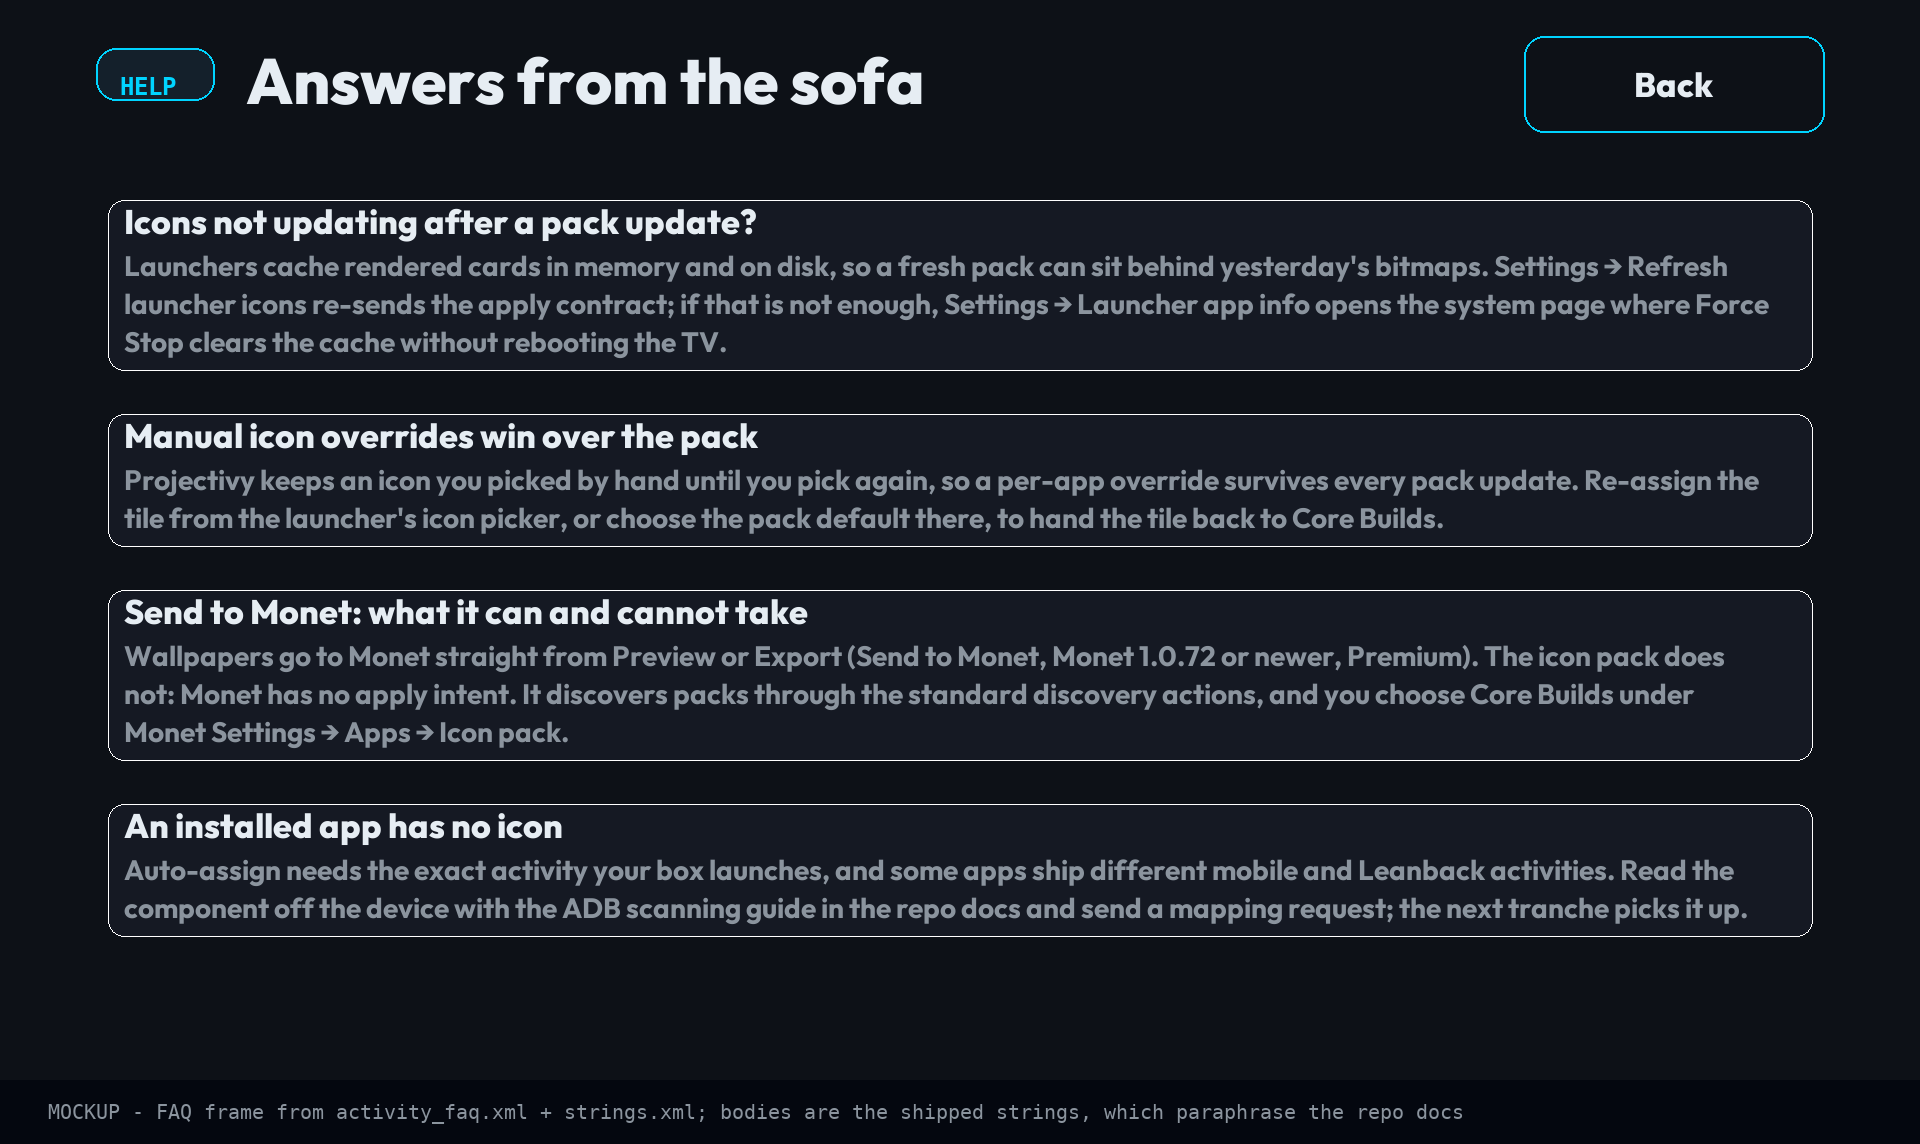
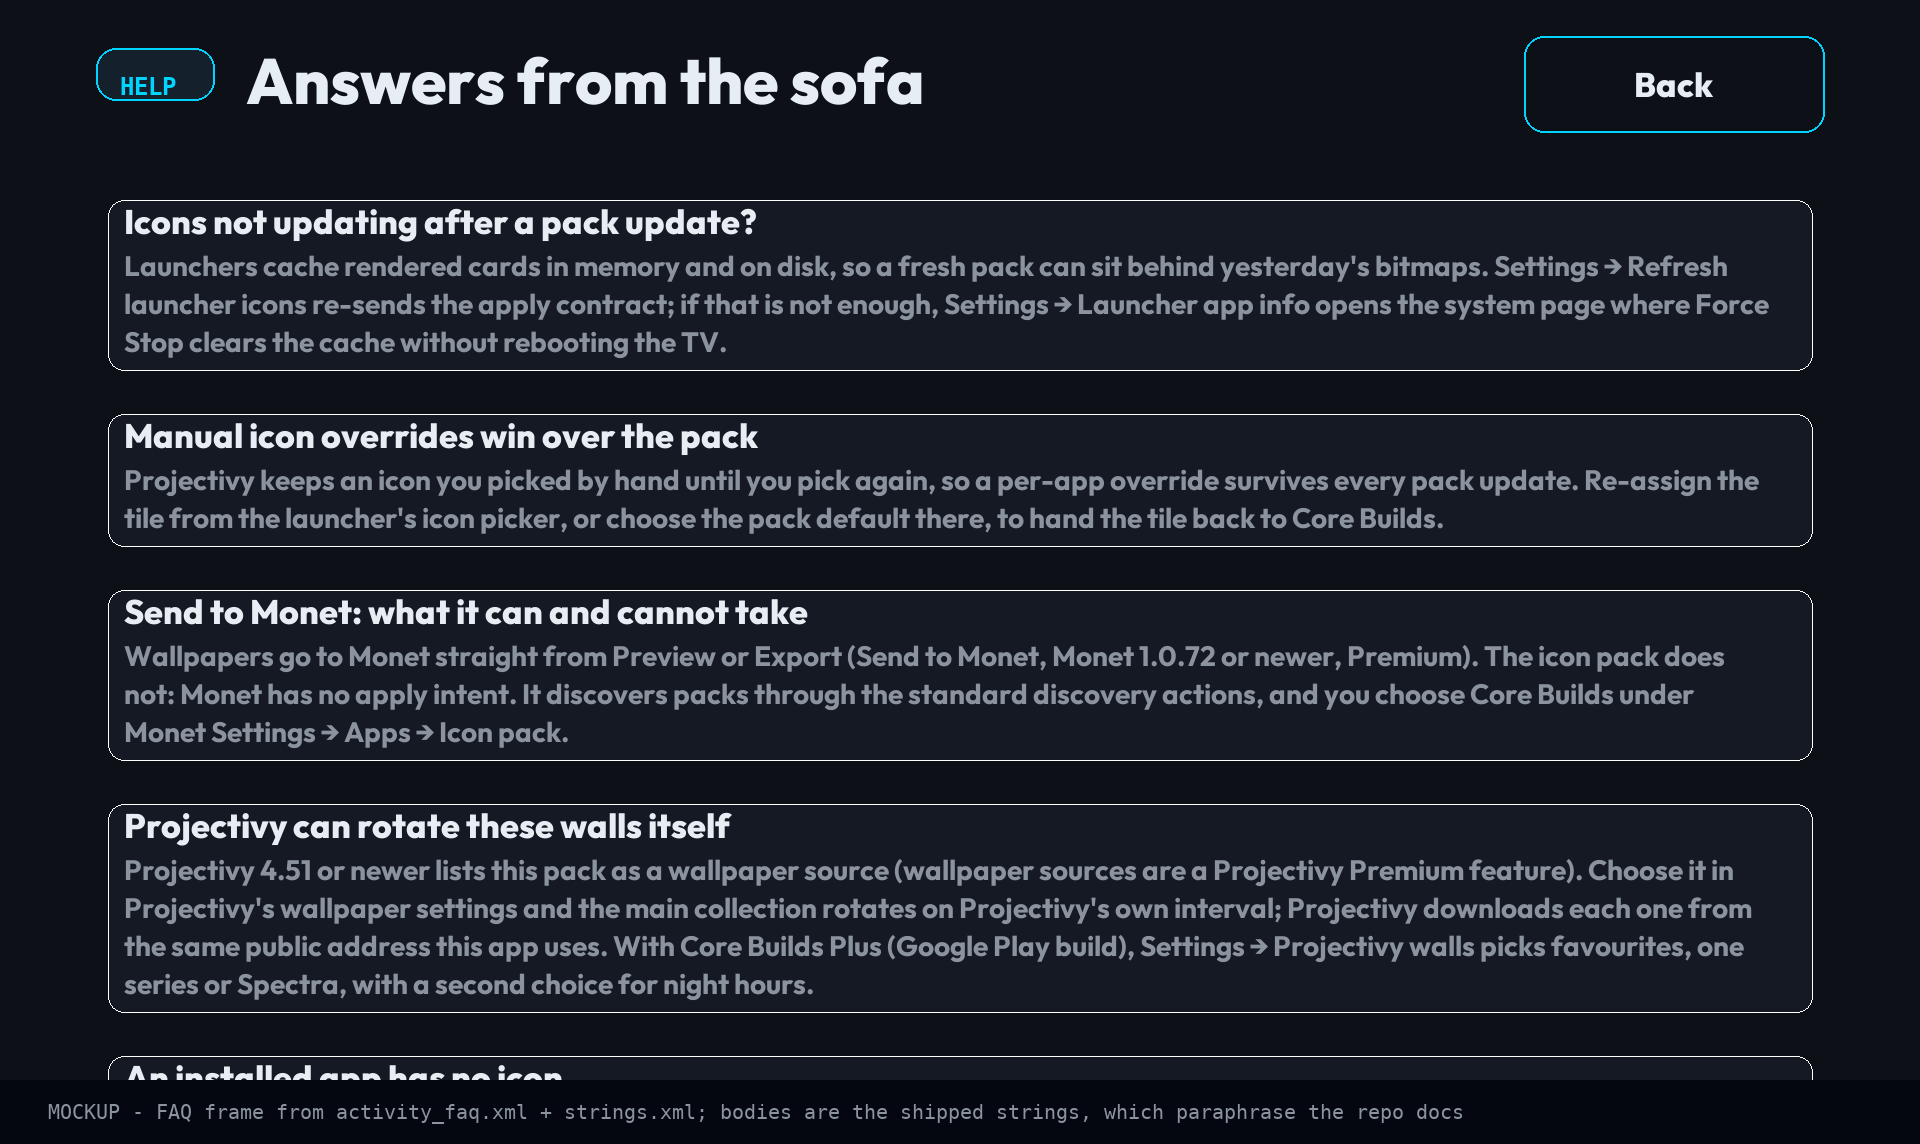
docs(plus): list the six extras everywhere Plus is described
The night loop and Projectivy walls make Plus six extras, not four. Every
place that lists them now says so:
- the Plus card and its mode line (src/play);
- the Settings row, the for-sale and owned lines;
- Plus.kt's doc;
- the Play listing's CORE BUILDS PLUS paragraph (PLUS_COPY), which ships
  only while Plus is on sale, so today's listing text is unchanged;
- docs/PLAY-CONSOLE.md §8, whose internal-test step 8 now checks both new
  extras;
- docs/privacy.html, effective 22 October 2026. It gains a row for
  Projectivy as a wallpaper source: the app sends nothing, and Projectivy
  downloads the walls from the same public address. The night loop and
  Projectivy walls run on the TV.

The FAQ gains a card for everyone: Projectivy can rotate these walls
itself. It is fourth, so it shows without scrolling. The fifth card now
sits below the first screen and is reached by the screen's existing D-pad
scroll.

CHANGELOG [Unreleased] carries both features under the contract's kinds:
Added, Changed, Fixed.

Verified:
- pytest: 760 passed, 1 skipped, test_changelog_contract included.
- build_play_listing --check and build_app_ui_mockups --check pass; the
  FAQ frame was regenerated. check_ui_resources, suite truth and
  audit_contract pass.
- Gradle: assembleBannersDebug, compileBannersPlayKotlin, the unit tests,
  and lint for bannersDebug and bannersPlay exit 0.

Not run on a TV.

Claude-Session: https://claude.ai/code/session_01RJbpQkj9fcYQq4sLMHkjVQ

Changed region(s): [[0.0625, 0.7037, 0.9062, 0.8872], [0.0625, 0.9178, 0.2812, 0.9484]]

diff --git a/docs/privacy.html b/docs/privacy.html
@@ -42,7 +42,7 @@ and <code>tv.corebuilds.iconpack.glyphs.play</code>, which have no network code
 and send nothing) and Core Builds Glyphs (<code>tv.corebuilds.glyphs</code>, the
 icon pack drawn in glyph art, covered wherever this page says "the app").</p>
 
-<p><strong>Effective:</strong> 21 October 2026.</p>
+<p><strong>Effective:</strong> 22 October 2026.</p>
 
 <h2>There is no account, and no profile</h2>
 <p>The app has no sign-in, no user identifier and no analytics, advertising or
@@ -101,6 +101,13 @@ described below. Nothing is collected in the background.</p>
     <td><code>api.github.com</code> (GitHub)</td>
   </tr>
   <tr>
+    <td>Projectivy uses the pack as its wallpaper source, if you choose it there</td>
+    <td>Nothing is sent by the app. Projectivy asks the app for the list of
+        walls over Android's own interface, on the TV, and then downloads each
+        wall itself from the same public address the app uses.</td>
+    <td><code>raw.githubusercontent.com</code> (GitHub), requested by Projectivy</td>
+  </tr>
+  <tr>
     <td>You switch the Art style to square glyphs on the Play build</td>
     <td>Nothing is sent by the app: it opens the Glyphs companion's listing,
         which your browser or the Play Store app loads from Google.</td>
@@ -139,8 +146,8 @@ can rotate them. Downloaded wallpapers and loops are cached in the app's private
 storage. On the Google Play build the app also keeps the Core Builds Plus
 purchase token, if you own Plus, and for <em>My requests</em> the list of
 requests filed from this TV (up to 200: each app's name, component and issue
-number, all of which are already public in the issue). Live loop rotation runs
-on the TV and sends nothing. Everything in the app's private storage is removed
+number, all of which are already public in the issue). Live loop rotation, the
+night loop and the Projectivy walls settings run on the TV and send nothing. Everything in the app's private storage is removed
 when you clear the app's data or uninstall the app. Exported wallpapers are
 ordinary files in your <code>Pictures</code> folder: they stay there until you
 delete them.</p>
@@ -165,7 +172,8 @@ delete them.</p>
 <p>The GitHub / Downloader build has no purchases. The Google Play build can
 offer one: <strong>Core Builds Plus</strong>, an optional one-time purchase
 (no subscription) that adds priority icon requests, <em>My requests</em>, live
-loop rotation and the Spectra wallpapers. It is offered only in builds where
+loop rotation, the night loop, the choice of what Projectivy rotates from the
+pack, and the Spectra wallpapers. It is offered only in builds where
 the request broker is enabled, because priority requests need it. Until then
 the Play build offers no purchases.</p>
 <p>Payment is processed by Google Play under Google's own privacy policy. No

diff --git a/app/src/main/java/tv/corebuilds/iconpack/Plus.kt b/app/src/main/java/tv/corebuilds/iconpack/Plus.kt
@@ -5,11 +5,14 @@ import android.content.Context
 import android.content.Intent
 
 /**
- * Core Builds Plus: the Google Play build's one-time unlock. It adds four
+ * Core Builds Plus: the Google Play build's one-time unlock. It adds six
  * things and holds nothing else back: priority on the icon requests the
- * auditor files, My requests (each request's progress), live loop rotation,
- * and the Plus wallpaper series. Every icon, banner and the main wallpaper
- * collection ship to everyone, and the GitHub builds have no Plus at all.
+ * auditor files, My requests (each request's progress), live loop rotation
+ * ([LoopRotation]), the night loop ([DayNight]), the choice of what
+ * Projectivy rotates by day and by night ([ProjectivyWalls]), and the Plus
+ * wallpaper series. Every icon, banner and the main wallpaper collection ship
+ * to everyone, in Projectivy's rotation too, and the GitHub builds have no
+ * Plus at all.
  *
  * PlusStore exists twice, one per distribution: src/play/java talks to Google
  * Play Billing, and src/github/java (debug, release, candidate) is a no-op

diff --git a/tools/build_play_listing.py b/tools/build_play_listing.py
@@ -241,9 +241,11 @@ PLUS_COPY = (
     "CORE BUILDS PLUS\n"
     "Optional, one purchase through Google Play, no subscription: your icon "
     "requests are filed as priority, My requests shows how far each one has "
-    "got, the live wallpaper can rotate through your loops, and Spectra adds "
-    "{plus_walls} more wallpapers. Every icon, all {walls} stills, every loop "
-    "and every screen ship to everyone either way.\n"
+    "got, the live wallpaper can rotate through your loops and play a second "
+    "one at night, you choose what Projectivy rotates from this pack "
+    "(favourites, one series, a night set), and Spectra adds {plus_walls} "
+    "more wallpapers. Every icon, all {walls} stills, every loop and every "
+    "screen ship to everyone either way.\n"
     "\n"
 )
 PLUS_PRIVACY = (

diff --git a/tools/build_app_ui_mockups.py b/tools/build_app_ui_mockups.py
@@ -1078,7 +1078,7 @@ def faq_frame() -> tuple[Image.Image, str]:
     y = top + dp(6)
     f_title = font("sans", DIMENS["cb_text_body"], bold=True)
     f_body = font("sans", DIMENS["cb_text_data"])
-    for key in ("cache", "override", "monet", "unmapped"):
+    for key in ("cache", "override", "monet", "projectivy", "unmapped"):
         title = STRINGS[f"faq_{key}_title"]
         body = STRINGS[f"faq_{key}_body"]
         lines = wrap(draw, body, f_body, W - 2 * g - dp(40))

diff --git a/CHANGELOG.md b/CHANGELOG.md
@@ -6,6 +6,55 @@ All notable changes to the Core Builds Icon Pack. Format follows
 
 ## [Unreleased]
 
+### Added
+
+- **The walls as a Projectivy wallpaper source.** Projectivy 4.51 or newer
+  lists the pack under its wallpaper settings (wallpaper sources are a
+  Projectivy Premium feature). Chosen there, the main collection, 132 walls,
+  rotates on Projectivy's own interval, in every build. Projectivy downloads
+  each wall from the manifest's public address, as the app's browser does;
+  the app sends nothing. The GitHub, Play, test and Glyphs builds each
+  register their own source, so one TV can hold several without a clash.
+  Settings → Troubleshooting and FAQ has a card on it. Not yet seen inside
+  Projectivy: no build of this has run on a TV.
+- **Night loop, a Core Builds Plus extra.** During night hours (20–07,
+  21–07, 22–06 or 19–07, by the TV's clock) the live wallpaper plays a second
+  loop, then hands back to the one picked in the preview. A home screen left
+  on changes over at the hour. Only loops already on the TV are offered, and
+  nothing downloads. Settings → Night loop and Night hours.
+- **Projectivy walls, a Core Builds Plus extra.** Two Settings rows choose
+  what Projectivy rotates from the pack, by day and during night hours: all
+  walls (with Spectra), favourites, or one of 12 series. A choice that
+  matches no wall falls back to the day choice, then to everything, so the
+  rotation is never empty. A change reaches Projectivy at once; night hours
+  begin within the hour Projectivy keeps its list.
+
+### Changed
+
+- **Plus lists six extras.** Priority requests, My requests, loop rotation,
+  the night loop, Projectivy walls and Spectra. Every icon, the main
+  collection (in Projectivy's rotation too) and every screen still ship to
+  everyone. The Plus card, the Settings row, the Play listing,
+  `docs/PLAY-CONSOLE.md` §8 and `docs/privacy.html` (effective 22 October
+  2026) say so.
+- **`tests/test_projectivy_walls.py` holds the Projectivy contract.** 13
+  tests: the AIDL and contract constants are Core Motion's byte for byte,
+  the hand-written parcel keeps Core Motion's field order, the manifest
+  carries what Projectivy reads, each build gets its own id, and the free
+  and Plus tiers split where they should. It runs in `build.yml` and
+  `suite-ci.yml`. The app module's first JUnit tests, `DayNightTest` (5)
+  and `ProjectivyWallsTest` (7), run in CI's existing unit-test task.
+
+### Fixed
+
+- **`tests/test_navigation_graph.py` reads screens, not meta-data keys.** It
+  matched every `android:name` ending in "Activity", so Projectivy's
+  `settingsActivity` key read as a screen with no way in. It now reads
+  `<activity>` elements only.
+- **`tests/test_ui_wiring.py` accepts a zero-padded positional integer.**
+  `%1$02d`, the night hours' "20:00", is valid `String.format` grammar that
+  the gate rejected.
+
 ## [2.5.0] — 2026-10-21
 
 The first release since 2.4.4. It also carries what `main` gained since

diff --git a/docs/PLAY-CONSOLE.md b/docs/PLAY-CONSOLE.md
@@ -204,8 +204,10 @@ and factual — what changed, and anything a user must do.
 ## 8. Core Builds Plus
 
 Plus is one managed product, bought once: priority icon requests, *My
-requests*, live loop rotation and Spectra (12 walls). Every icon, the main
-wallpaper collection and every screen ship to everyone. It is on sale only in
+requests*, live loop rotation, the night loop, the choice of what Projectivy
+rotates from the pack (by day and at night) and Spectra (12 walls). Every
+icon, the main wallpaper collection (in Projectivy's rotation too) and every
+screen ship to everyone. It is on sale only in
 a build with the request broker baked in, because priority requests are what
 it adds; until then the Play build sells nothing and the steps below wait.
 
@@ -247,7 +249,11 @@ it adds; until then the Play build sells nothing and the steps below wait.
    extra opens the Plus card before buying. Buy. Then a missing-icon press
    files an issue labelled `priority`; *My requests* lists it; *Rotate live
    loops* set to every hour moves the live wallpaper after an hour with two
-   or more loops downloaded; the Plus chip's Spectra walls open and download.
+   or more loops downloaded; a *Night loop* plays from the start of *Night
+   hours* with the home screen left on; with the pack as Projectivy's
+   wallpaper source, *Projectivy walls* set to Spectra rotates only Spectra
+   (`adb logcat -s CoreBuilds/Walls` shows each fetch and its count); the
+   Plus chip's Spectra walls open and download.
 
 None of this has run on a TV yet: no device has bought Plus. Step 8 is the
 first real proof of the purchase sheet, the acknowledge call and the broker's
